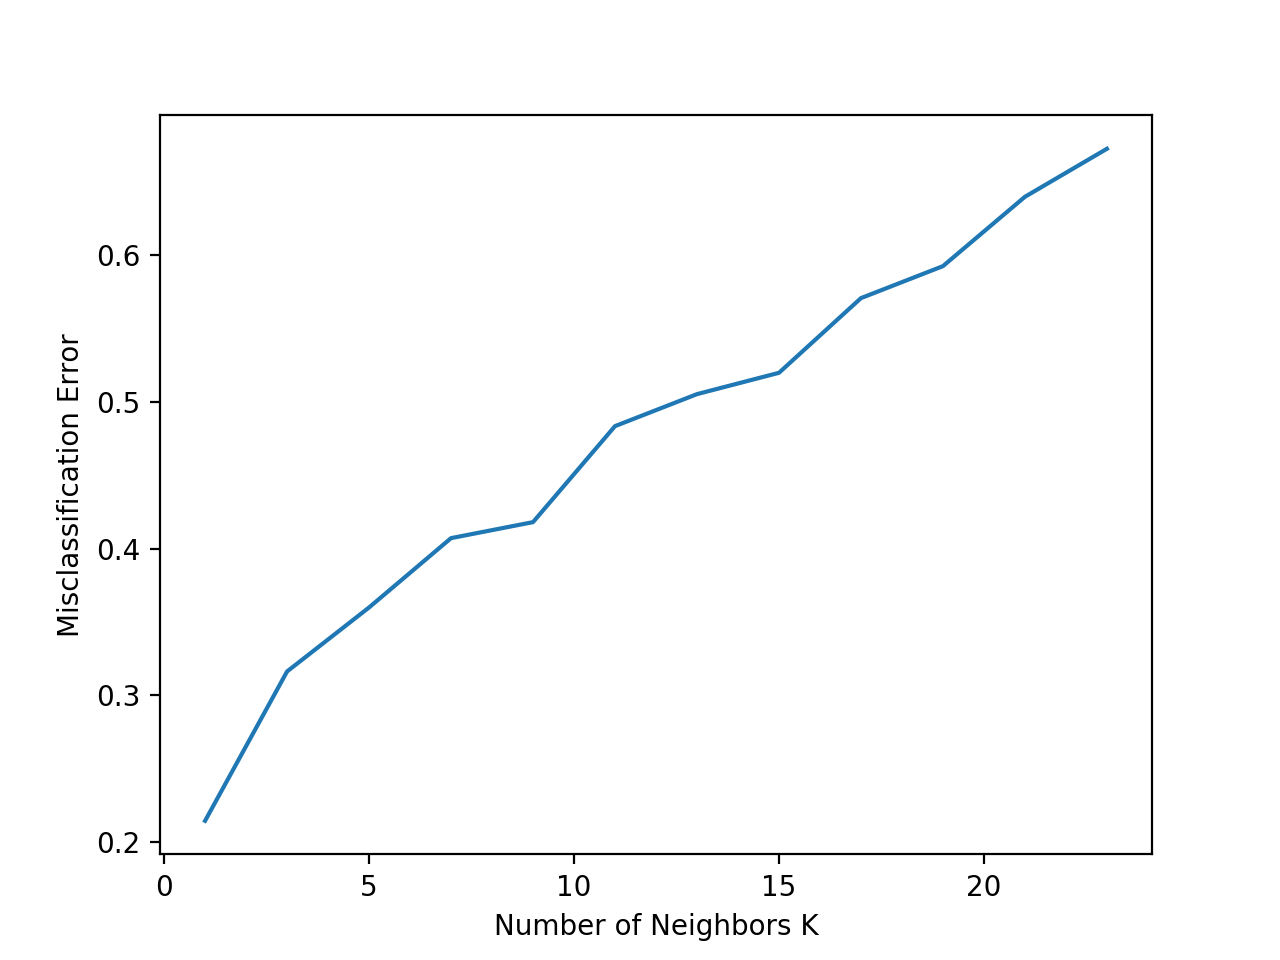
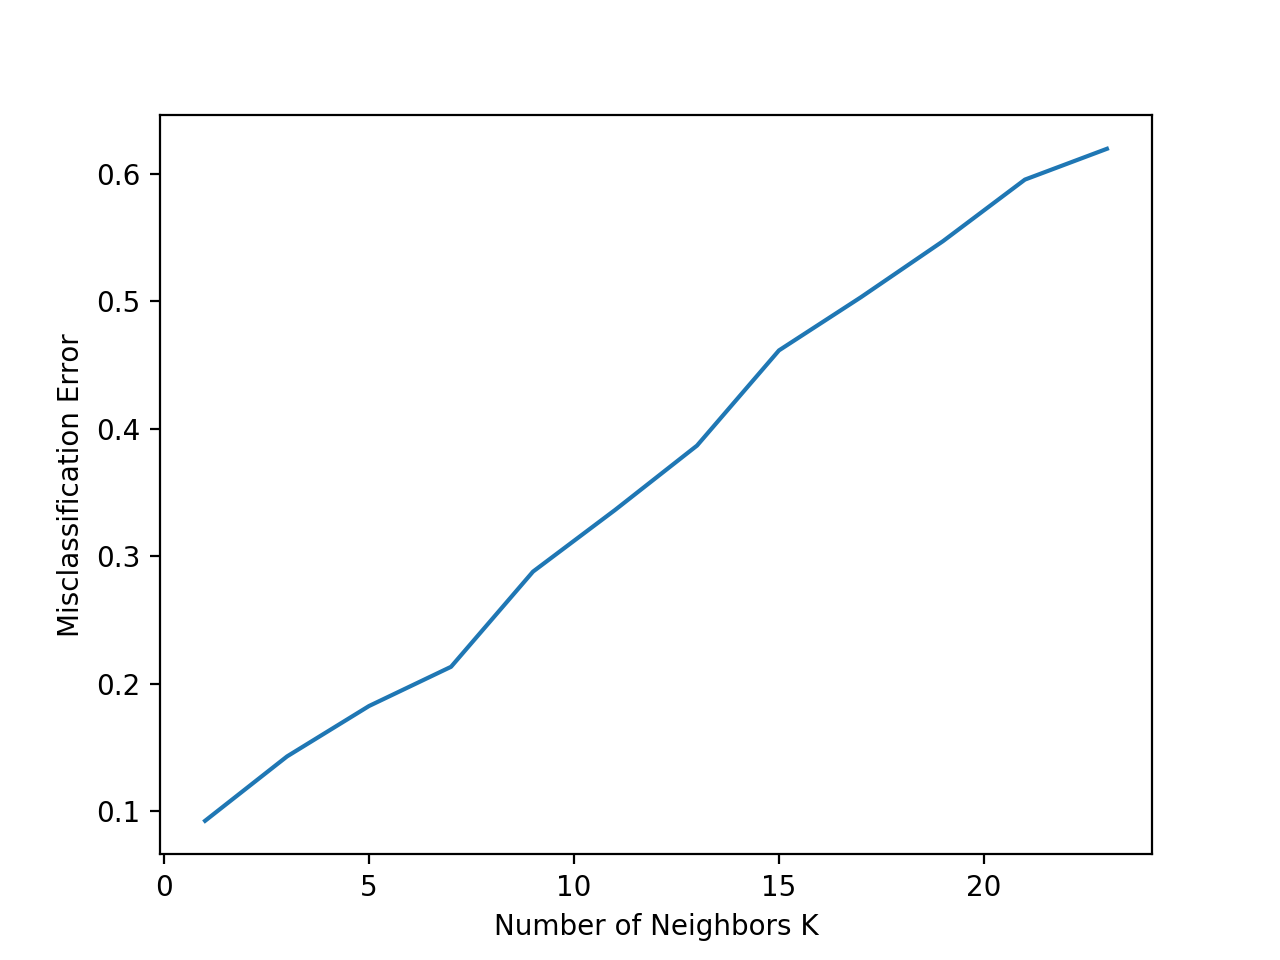
stuff

diff --git a/Project/Report/chapters/implementation/basic_processing.tex b/Project/Report/chapters/implementation/basic_processing.tex
@@ -181,7 +181,7 @@ For classification different classifiers were tested. The best of the investigat
 \gls{knn} utilises Bayes theorem in order to determine the probability of a sample belonging to a certain class. The probability of the sample belonging to different classes is found by looking at the density of datapoint belonging to the different classes among the $k$ nearest neighbours. The probability of a class given the sample can be estimated by the formula in \autoref{eq:classProb}.
 
  \begin{equation}\label{eq:classProb}
-	p(C_k|\text{x}|=\frac{K_k}{K}
+	p(C_k|\text{x})=\frac{K_k}{K}
 \end{equation}
 
 Where $C_k$ is a given class, $\text{x}$ is the sample, $K$ is the number of neighbours considered, and $K_k$ is the amount of data points among the $K$ neighbours belonging to the class $C_k$.
@@ -214,19 +214,42 @@ In this project the above mentioned classification methods were implemented. Jus
 \hline
 Classifier&MA&$2\sigma$&MA&$2\sigma$\\
 \hline
-KNN (k=1)&0.79&$\pm$0.06&0.91&$\pm$0.06\\
+KNN (k=1)&$0.7$9&$\pm0.06$&$0.91$&$\pm0.04$\\
 \hline
-LDA&0.93&$\pm$0.04&0.94&$\pm$0.03\\
+LDA&$0.94$&$\pm0.02$&$0.95$&$\pm0.03$\\
 \hline
-SVM (Linear)&0.85&$\pm$0.05&0.91&$\pm$0.03\\
+SVM (Linear)&$0.85$&$\pm0.08$&$0.92$&$\pm0.02$\\
 \hline
-SVM (quadratic)&0.75&$\pm$0.10&0.92&$\pm$0.04\\
+SVM (quadratic)&$0.77$&$\pm0.08$&$0.92$&$\pm0.04$\\
 \hline
 \end{tabular}
 \caption{Performance of the different classifiers evaluated by five-fold cross validation. MA is for Mean Accuracy, and $\sigma$ is the standard deviation}
 \label{tab:fiveFoldClas}
 \end{table} 
 Considering the results for the \gls{knn} shown in \autoref{tab:fiveFoldClas} there seem to be a significant increase in the accuracy of the classifier. However, since it is based on such a limited amount of measurements it is probably more representative and valuable to consider the general trends. When comparing the two accuracies across all of the classifiers there seem to be evidence for an increase in accuracy when the histogram equalisation is used rather than the histogram stretching. Therefore the histogram equalisation is used from this point on 
+
+\begin{table}[h]
+\centering
+\begin{tabular}{|l|c|c|}
+\cline{2-3}
+\multicolumn{1}{c|}{}&\multicolumn{2}{c|}{Cross Validation Accuracy}\\
+\cline{2-3}
+\multicolumn{1}{c|}{}&Replicated&\cite{Khan2017a}\\
+\hline
+KNN (k=1)&0.91&0.951\\
+\hline
+LDA&0.95&0.9428\\
+\hline
+SVM (Linear)&0.92&0.9646\\
+\hline
+SVM (quadratic)&0.92&0.97\\
+\hline
+\end{tabular}
+\caption{Comparison of the Performance of the different classifiers evaluated by five-fold cross validation. MA is for Mean Accuracy, and $\sigma$ is the standard deviation}
+\label{tab:fiveFoldClas}
+\end{table} 
+
+
 
 
 \subsection{Challenges}

diff --git a/Project/code/iris_classification.py b/Project/code/iris_classification.py
@@ -243,10 +243,28 @@ print("Test Accuracy of LDA: %.2f" % accuracy_score(y_test, lda_model.predict(X_
 print("Validation Accuracy of LDA: %.2f" % accuracy_score(y_validation, lda_model.predict(X_validation)))
 
 
+
 #KNN
 knn_model = KNeighborsClassifier(n_neighbors=optimal_k).fit(X_train,y_train)
-print("Accuracy of validation on KNN k =",optimal_k,": %.2f" % accuracy_score(y_test, knn_model.predict(X_test)))
-
+#print("Accuracy of validation on KNN k =",optimal_k,": %.2f" % accuracy_score(y_test, knn_model.predict(X_test)))
 print("Train Accuracy of KNN: %.2f" % accuracy_score(y_train, knn_model.predict(X_train)))
 print("Test Accuracy of KNN: %.2f" % accuracy_score(y_test, knn_model.predict(X_test)))
 print("Validation Accuracy of KNN: %.2f" % accuracy_score(y_validation, knn_model.predict(X_validation)))
+
+
+
+#myList = list(range(1,25)) # Number of K's we try to check for
+#neighbors = list(filter(lambda x: x % 2 != 0, myList)) # Get odd number K's
+#new_scores = []
+#for kk in neighbors:
+    #knn_model = KNeighborsClassifier(n_neighbors=kk).fit(X_train,y_train)
+    #new_scores.append(accuracy_score(y_test, knn_model.predict(X_test)))
+    #print("Train Accuracy of KNN: %.2f" % accuracy_score(y_train, knn_model.predict(X_train)))
+    #print("Test Accuracy of KNN: %.2f" % accuracy_score(y_test, knn_model.predict(X_test)))
+    #print("Validation Accuracy of KNN: %.2f" % accuracy_score(y_validation, knn_model.predict(X_validation)))
+#optimal_k = neighbors[new_scores.index(max(new_scores))]
+#print ("The optimal number of neighbors is %d" % optimal_k)
+#plt.plot(neighbors, new_scores)
+#plt.xlabel('Number of Neighbors K')
+plt.ylabel('Accuracy')
+plt.show()

diff --git a/Project/code/main_script_marike.py b/Project/code/main_script_marike.py
@@ -19,8 +19,8 @@ import numpy as np
 def iris_proc (image):
     img_without_noise = noiserm.noiseremover(image,0.1,10)
   #  print("noise removed")
-    #equalised_img = cv2.equalizeHist(img_without_noise)
-    equalised_img = noiserm.equalisehistogram(img_without_noise,10)
+    equalised_img = cv2.equalizeHist(img_without_noise)
+    #equalised_img = noiserm.equalisehistogram(img_without_noise,10)
   #  print("histogram equalised")
     wavelet_results= pywt.wavedec2(equalised_img,'haar',level=3)
     #haar_image=np.vstack((np.hstack((np.vstack((np.hstack((np.vstack((np.hstack((wavelet_results[0],wavelet_results[1][0])),np.hstack((wavelet_results[1][1],wavelet_results[1][2])))),wavelet_results[2][0])),np.hstack((wavelet_results[2][1],wavelet_results[2][2])))),wavelet_results[3][0])),np.hstack((wavelet_results[3][1],wavelet_results[3][2]))))
